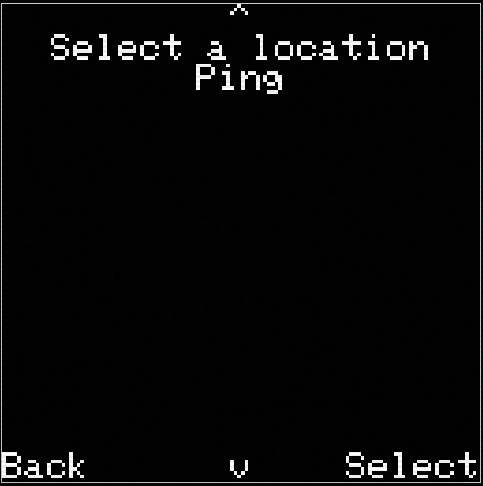
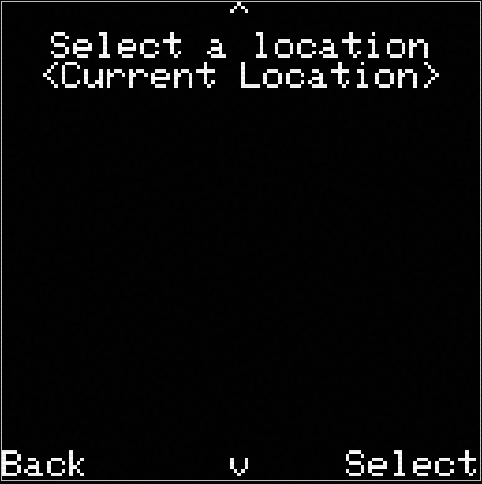
minor corrections

diff --git a/celestial-wayfinder/user-guide.md b/celestial-wayfinder/user-guide.md
@@ -40,9 +40,9 @@ The Home Window is the main point of interaction with the LoRa network. At a gla
 
 Pressing button 2 will prompt you to select a location
 
-![Select a location](/assets/images/celestial-wayfinder/broadcast-select-location.png)
+![](assets/images/celestial-wayfinder/broadcast-select-location.png)
 
-The default location is "Ping", which is your current location. More locations can be saved from pings received, the quick action menu, or downloaded onto the device from the configuration app.
+The default is your current location. More locations can be saved from pings received, the quick action menu, or downloaded onto the device from the configuration app.
 
 ![Select a message](/assets/images/celestial-wayfinder/broadcast-select-message.png)
 
@@ -183,8 +183,7 @@ Under the hood, your key string is stretched into an AES-128 encryption key
 (PBKDF2-HMAC-SHA256, 10,000 iterations), and every message is encrypted with
 AES-128-CBC using a fresh random IV. Two badges with the same key string
 always derive the same encryption key, which is what lets them read each
-other — and why the key is case-sensitive and must match exactly.
-
+other.
 ### How they interact
 
 Every badge relays every message it hears on its channel toward the edge of
@@ -210,8 +209,7 @@ Main Menu's [Debug Geolocation](#main-menu) screen.
 
 The primary source, and the only one that also sets the clock. It's a
 satellite fix from the onboard GPS module. Like any GPS, it needs a clear-ish
-view of the sky and can take a while to get a first fix — it reports "No Fix"
-on the Debug Geolocation screen until then.
+view of the sky and can take a while to get a first fix.
 
 ### WiFi
 
@@ -235,7 +233,7 @@ neither GPS nor WiFi produce a fix. Set it from the **Static Lat** / **Static
 Lon** settings under [Settings Reference → Navigation](#settings-reference);
 useful as a known-good location for testing, or as a deliberate fallback if
 you'd rather the badge report a fixed point than nothing at all when the
-other sources are out of range.
+other sources are out of range. This source is disabled by default.
 
 ### How they interact
 
@@ -310,10 +308,3 @@ actually do.
 | ---------- | -------- | ----------------------------------------------- |
 | Static Lat | 33.7490  | Latitude used for emulating a static location.  |
 | Static Lon | -84.3880 | Longitude used for emulating a static location. |
-# Further Questions
-
-Any other questions not covered here? Reach out to our team on the BadgeMakers discord:
-
-- d3g3n - Firmware
-- l4rry - Hardware
-- ammar2 - PWA
